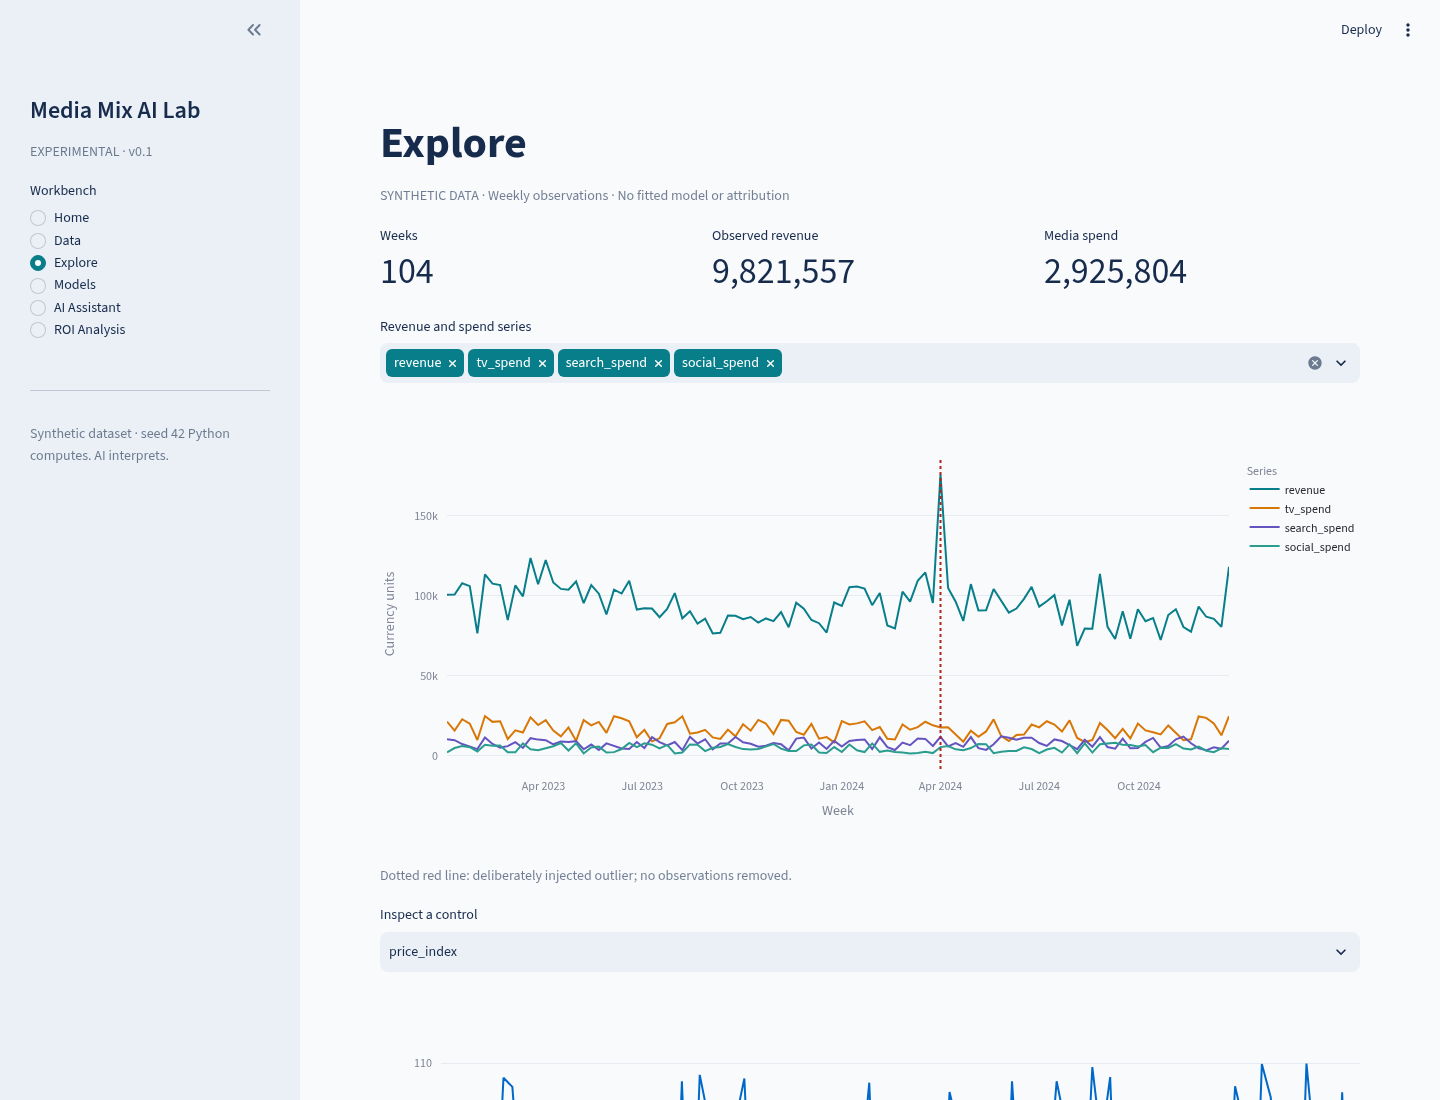
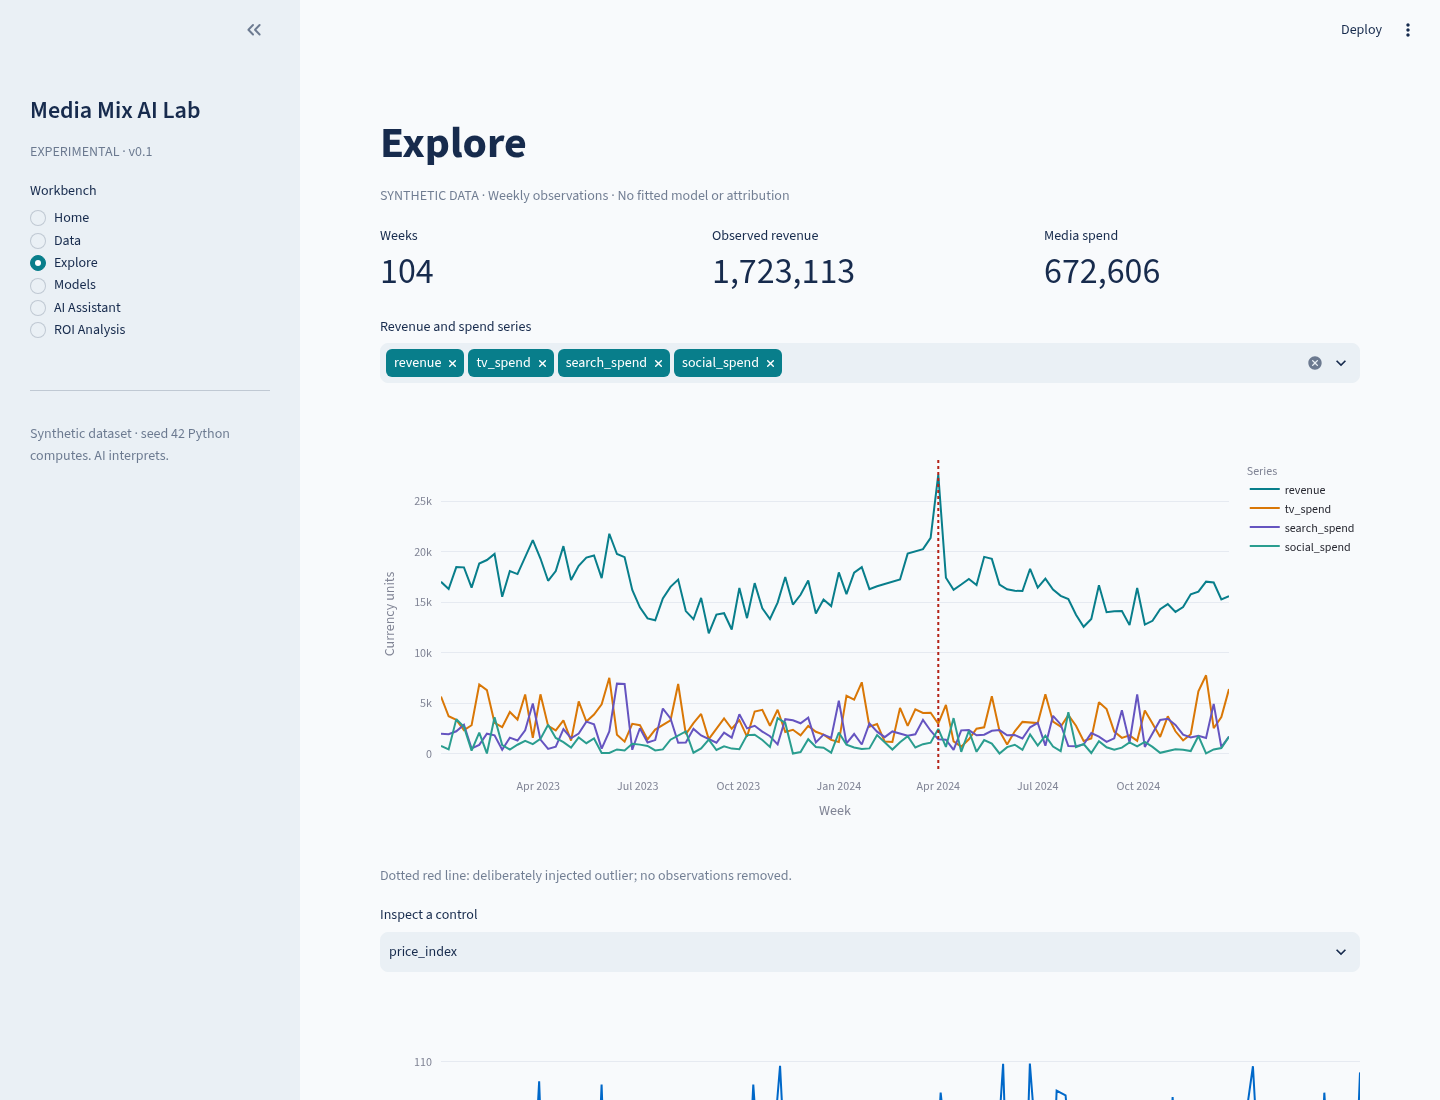
Scale down default synthetic media dataset

diff --git a/tests/test_data.py b/tests/test_data.py
@@ -5,7 +5,12 @@ import pandas as pd
 import pytest
 from pandas.testing import assert_frame_equal
 
-from media_mix_ai_lab.data.synthetic import OUTLIER_POSITION, generate_sample_data
+from media_mix_ai_lab.data.synthetic import (
+    MAX_WEEKLY_MEDIA_INVESTMENT,
+    OUTLIER_LIFT,
+    OUTLIER_POSITION,
+    generate_sample_data,
+)
 from media_mix_ai_lab.data.validation import validate_dataset
 
 
@@ -25,18 +30,22 @@ def test_sample_schema_frequency_and_outlier():
     assert (np.diff(frame["date"].to_numpy()) == np.timedelta64(7, "D")).all()
     assert frame["is_injected_outlier"].sum() == 1
     assert frame.loc[OUTLIER_POSITION, "is_injected_outlier"]
+    weekly_media = frame[["tv_spend", "search_spend", "social_spend"]].sum(axis=1)
+    assert weekly_media.max() <= MAX_WEEKLY_MEDIA_INVESTMENT
+    assert weekly_media.max() > 9_500
     baseline = (
-        50_000
-        + 1.4 * frame.tv_spend
-        + 2 * frame.search_spend
-        + 1.2 * frame.social_spend
-        - 300 * (frame.price_index - 100)
-        + 8_000 * frame.promotions
-        + 10_000 * frame.seasonality
+        12_000
+        + 0.55 * frame.tv_spend
+        + 0.85 * frame.search_spend
+        + 0.45 * frame.social_spend
+        - 90 * (frame.price_index - 100)
+        + 1_500 * frame.promotions
+        + 2_000 * frame.seasonality
     )
     residual = frame.revenue - baseline
-    assert residual.iloc[OUTLIER_POSITION] > 50_000
-    assert residual.drop(index=OUTLIER_POSITION).abs().max() < 10_000
+    assert residual.iloc[OUTLIER_POSITION] > OUTLIER_LIFT - 1_500
+    assert residual.drop(index=OUTLIER_POSITION).abs().max() < 2_000
+    assert frame["revenue"].max() < 35_000
 
 
 def test_committed_csv_matches_generator():

diff --git a/src/media_mix_ai_lab/data/synthetic.py b/src/media_mix_ai_lab/data/synthetic.py
@@ -5,6 +5,8 @@ import pandas as pd
 
 OUTLIER_POSITION = 65
 DEFAULT_SEED = 42
+MAX_WEEKLY_MEDIA_INVESTMENT = 10_000
+OUTLIER_LIFT = 8_000
 
 
 def generate_sample_data(n_weeks: int = 104, seed: int = DEFAULT_SEED) -> pd.DataFrame:
@@ -20,22 +22,23 @@ def generate_sample_data(n_weeks: int = 104, seed: int = DEFAULT_SEED) -> pd.Dat
     rng = np.random.default_rng(seed)
     week = np.arange(n_weeks)
     seasonality = np.sin(2 * np.pi * week / 52)
-    tv = rng.uniform(8_000, 25_000, n_weeks)
-    search = rng.uniform(3_000, 12_000, n_weeks)
-    social = rng.uniform(1_000, 8_000, n_weeks)
+    total_media = np.floor(rng.uniform(3_000, MAX_WEEKLY_MEDIA_INVESTMENT, n_weeks) * 100) / 100
+    channel_mix = rng.dirichlet((4.0, 2.5, 1.5), n_weeks)
+    tv, search = (channel_mix[:, :2] * total_media[:, np.newaxis]).round(2).T
+    social = (total_media - tv - search).round(2)
     price = rng.uniform(90, 110, n_weeks)
     promotions = rng.binomial(1, 0.2, n_weeks)
     revenue = (
-        50_000
-        + 1.4 * tv
-        + 2.0 * search
-        + 1.2 * social
-        - 300 * (price - 100)
-        + 8_000 * promotions
-        + 10_000 * seasonality
-        + rng.normal(0, 2_000, n_weeks)
+        12_000
+        + 0.55 * tv
+        + 0.85 * search
+        + 0.45 * social
+        - 90 * (price - 100)
+        + 1_500 * promotions
+        + 2_000 * seasonality
+        + rng.normal(0, 500, n_weeks)
     )
-    revenue[OUTLIER_POSITION] += 60_000
+    revenue[OUTLIER_POSITION] += OUTLIER_LIFT
     return pd.DataFrame(
         {
             "date": pd.date_range("2023-01-02", periods=n_weeks, freq="W-MON"),

diff --git a/src/media_mix_ai_lab/ui/app.py b/src/media_mix_ai_lab/ui/app.py
@@ -55,10 +55,11 @@ def data_page(frame: pd.DataFrame) -> None:
     with st.expander("Dataset dictionary and provenance", expanded=True):
         st.markdown(
             "104 Monday observations starting 2023-01-02; fixed seed **42**. "
-            "Revenue and TV/Search/Social spend use arbitrary currency units. "
+            "Revenue and TV/Search/Social spend use arbitrary currency units; combined "
+            "weekly media investment is capped at 10,000. "
             "Price index is centered around 100; promotions are binary; seasonality "
             "is an annual sine wave. **is_injected_outlier** labels a deliberately added "
-            "60,000-unit revenue spike at row 65 (zero-based). All rows remain intact."
+            "8,000-unit revenue spike at row 65 (zero-based). All rows remain intact."
         )
 
 

diff --git a/README.md b/README.md
@@ -82,9 +82,11 @@ revenue/spend must not be presented as incremental advertising ROI.
 
 The included sample has 104 weekly observations from January 2023, with arbitrary
 currency-unit revenue, TV/Search/Social spend, price index, binary promotions,
-and annual seasonality. NumPy seed **42** makes it reproducible. A deliberately
-injected 60,000-unit revenue spike at row 65 (zero-based) is explicitly labelled
-and retained. The data is synthetic and cannot support business conclusions.
+and annual seasonality. Combined weekly media investment is capped at **10,000**
+units, with modest synthetic channel returns. NumPy seed **42** makes it
+reproducible. A deliberately injected 8,000-unit revenue spike at row 65
+(zero-based) is explicitly labelled and retained. The data is synthetic and
+cannot support business conclusions.
 
 Regenerate the committed CSV from the repository root:
 

diff --git a/data/samples/README.md b/data/samples/README.md
@@ -7,8 +7,10 @@ Regenerate from the repository root with:
 uv run python -m media_mix_ai_lab.data.synthetic
 ```
 
-Revenue is a noisy additive combination of random spend, price, promotions,
-and annual seasonality. Row 65 (zero-based) has an additional 60,000 revenue
-units and is labelled `is_injected_outlier`. No cleaning removes it.
+Combined weekly media investment is sampled between 3,000 and 10,000 units and
+split across TV, Search, and Social. Revenue is a lower-scale noisy additive
+combination of spend, price, promotions, and annual seasonality. Row 65
+(zero-based) has an additional 8,000 revenue units and is labelled
+`is_injected_outlier`. No cleaning removes it.
 See `src/media_mix_ai_lab/data/synthetic.py` for the complete generating process.
 Currency units are arbitrary. This is teaching data, not evidence of real media effects.
